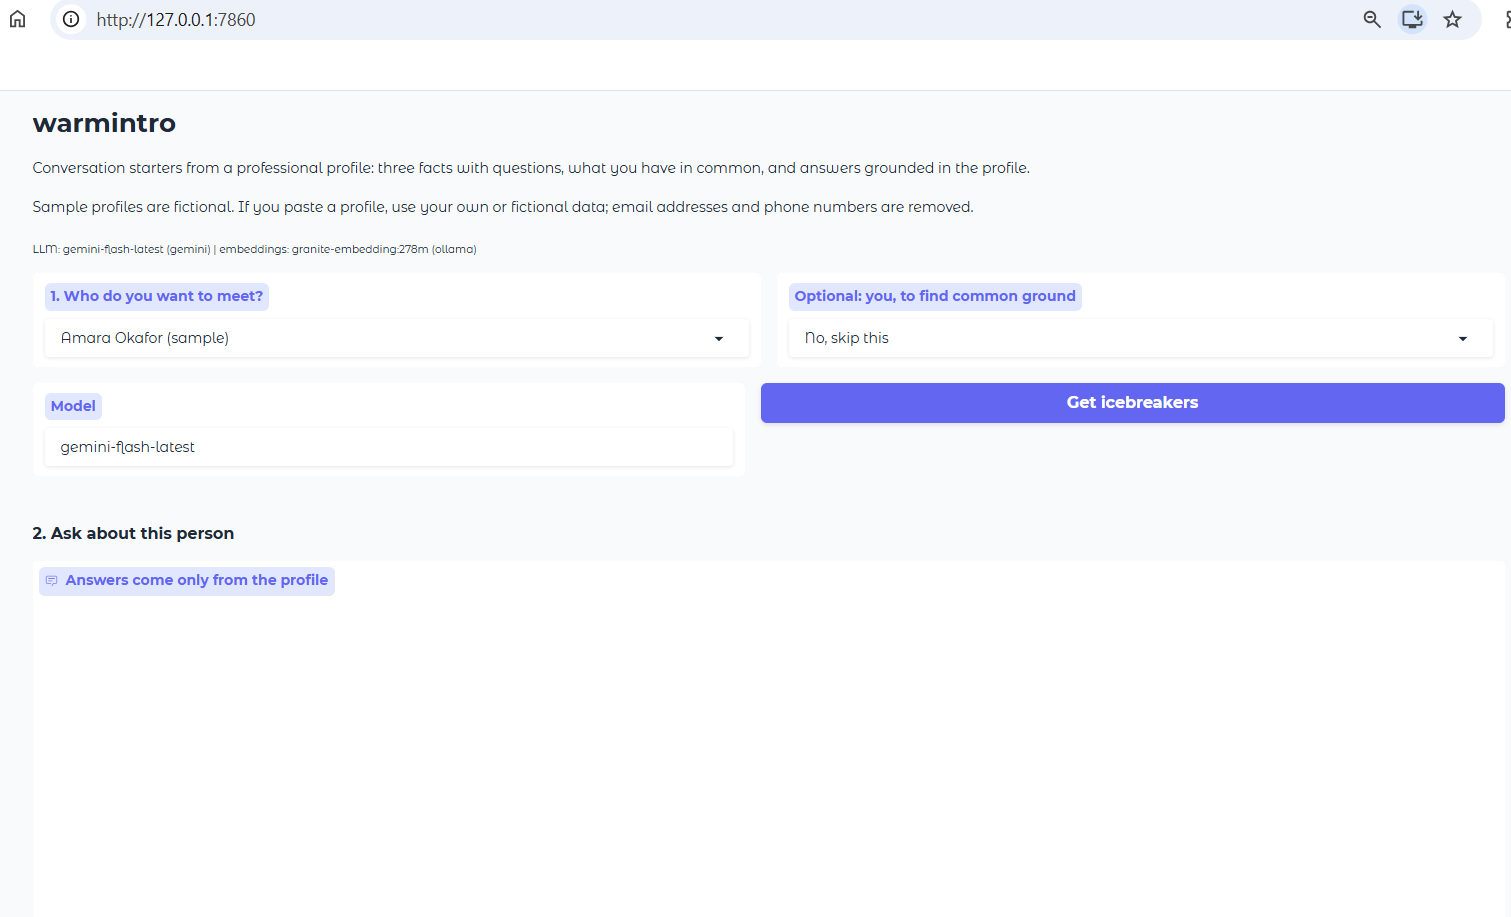
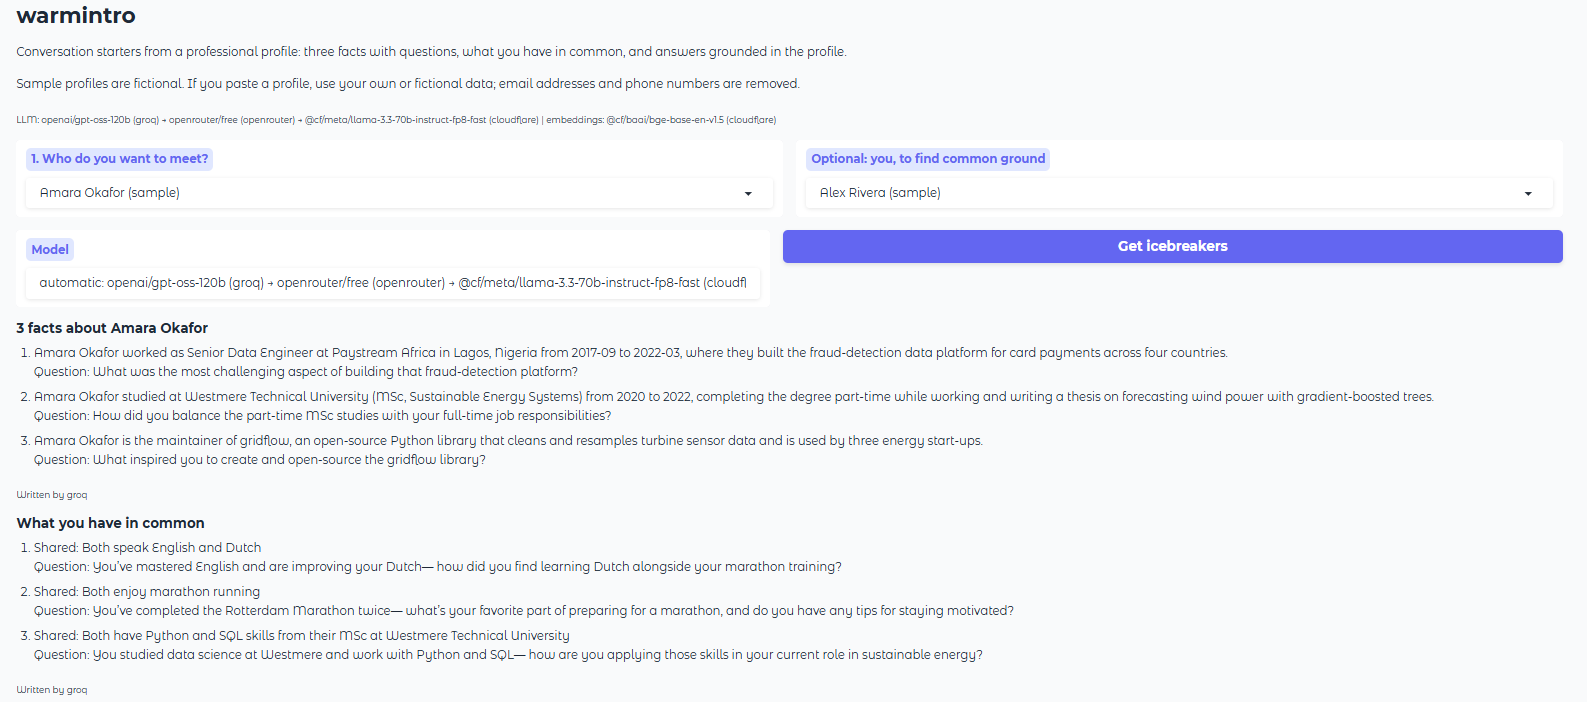
docs: README with results

diff --git a/README.md b/README.md
@@ -1,15 +1,194 @@
-# warmintro
+# warmintro: conversation starters from a professional profile
 
 ![tests](https://github.com/hlmhlr/warmintro/actions/workflows/tests.yml/badge.svg)
+![Python](https://img.shields.io/badge/python-3.12+-blue)
+![LlamaIndex](https://img.shields.io/badge/LlamaIndex-0.14-purple)
+![Ollama](https://img.shields.io/badge/runs%20on-Ollama-black)
+![Render](https://img.shields.io/badge/demo-Render-46e3b7)
 
 > Based on IBM's **"Build an AI Icebreaker Bot with IBM Granite 3.0 & LlamaIndex"** lab
-> (*Build RAG Applications: Get Started* course on Coursera), rebuilt to run locally
-> and free on IBM Granite via Ollama.
+> (*Build RAG Applications: Get Started* course on Coursera), rebuilt to run **locally
+> and free** on IBM Granite via Ollama, extended with a common-ground mode and an answer
+> evaluation, and deployed with a fallback across free cloud APIs.
 
-Work in progress. The full README comes with the web app.
+**Live demo:** LIVE_DEMO_URL *(free server: the first visit after 15 idle minutes takes about a minute to wake up)*
 
-```powershell
+![warmintro: facts and common ground](docs/screenshots/app.png)
+
+Pick a person, and warmintro writes three facts from their profile, each with a question
+to open a conversation, finds what you have in common, and answers questions using
+only the profile ("I don't know." otherwise). All people in this repo are fictional.
+
+## What this project covers
+
+| Lab part | Where it's implemented |
+|---|---|
+| 1. Configuration and prompt templates | `src/warmintro/config.py`, `scripts/01_config.py` |
+| 2. Concepts: LLMs, RAG stages, mock data vs. API | this README, [How it works](#how-it-works) |
+| 3. Profile data extraction | `src/warmintro/profiles.py`, `scripts/02_load_profile.py`, `data/profiles/` |
+| 4. Splitting, indexing, checking embeddings | `src/warmintro/index.py`, `scripts/03_build_index.py` |
+| 5. LLM and embedding interface | `src/warmintro/llm.py`, `src/warmintro/fallback.py`, `scripts/00_check_setup.py`, `scripts/00_check_cloud.py` |
+| 6. Query engine: initial facts and questions | `src/warmintro/query.py`, `scripts/04_initial_facts.py`, `scripts/05_ask.py` |
+| 7. Command-line app | `src/warmintro/cli.py` (`uv run warmintro`) |
+| 8. Gradio web app | `src/warmintro/webapp.py`, `app.py` |
+| **Extension:** common ground between you and them | `src/warmintro/common_ground.py`, `scripts/06_common_ground.py` |
+| **Extension:** evaluation, the RAG stage the lab skips | `src/warmintro/evaluate.py`, `scripts/07_evaluate.py`, `data/eval/` |
+| **Extension:** deployment and CI | `render.yaml`, `.github/workflows/`, `tests/` (198 tests, no model or network needed) |
+
+## What's different from the original lab
+
+**Changed to run locally and free**
+- IBM watsonx.ai → **Ollama** with IBM Granite (`granite4:tiny-h`, `granite-embedding:278m`) on a consumer GPU.
+- No LinkedIn scraping: Proxycurl is discontinued, and the lab's mock profile is a real person. The repo uses five **fictional profiles**, plus a paste box for your own. Email addresses and phone numbers are removed, even inside free text.
+- Lab notebook-style modules → a package (`src/warmintro`), one script per lab part, `uv`, Python 3.12, LlamaIndex 0.14.
+- **Live demo on free cloud APIs:** Groq → Cloudflare Workers AI → OpenRouter, tried in order. Gemini stays available locally, but [Google's terms](https://ai.google.dev/gemini-api/terms) allow only *paid* Gemini for apps offered to users in the EEA, UK or Switzerland, so the public demo doesn't use it.
+
+**Bugs in the lab code that are fixed** (each has a test that fails if the bug comes back)
+1. `truncate_input_tokens=3` embedded only the **first 3 tokens** of every chunk. Whole chunks are embedded now.
+2. `answer_user_query` retrieved the chunks, built a context string, never used it, then let the query engine retrieve again: two searches per question. Now one.
+3. Facts used `decoding_method="sample"` with `temperature=0.0`, which contradicts itself. A sampling preset now requires temperature > 0.
+4. `change_llm_model` changed a **global** setting, so in the web app one user's model choice switched it for everyone. The model is now per call and per session.
+5. The web app kept every index in a global dict that only grew. Sessions now live in `gr.State` with a one-hour limit and a cap of 50.
+6. On failure, `answer_user_query` returned a string, and its callers then crashed reading `.response`. Errors are raised and shown as one friendly line.
+7. The whole profile was dumped as **one line of JSON** and split by size, so chunks started mid-object (`"}, {"title": …`). Each section (a job, a school, the skills…) is now its own readable document.
+8. `verify_embeddings` read the private `_storage_context` and expected `None` for a missing vector, but `vector_store.get` raises `KeyError`. It now reports missing, all-zero and mixed-size vectors by node ID.
+9. The UI showed `f"Error: {e}"` with internal details. Users now get a short message, and tracebacks go to the log only.
+10. Also: the splitter's default overlap of 200 tokens on 400-token chunks is now 40; empty fields are cleaned at every level, not only the top; the "~500 characters" comment counted tokens.
+
+## How it works
+
+```mermaid
+flowchart LR
+    P["Profile JSON or pasted text"] --> C["Clean: drop empty fields and contact details"]
+    C --> S["One document per section<br/>metadata: person, owner, section"]
+    S --> I[("Vector index<br/>Granite or bge embeddings")]
+    M["Your profile (owner: me)"] --> I
+    I -->|"whole profile"| F["3 facts with questions"]
+    I -->|"top 4 chunks"| Q["Answer, or I don't know"]
+    I -->|"filter owner: them<br/>stored vectors as queries"| G["Shared words first, then common ground"]
+    F --> L{"LLM"}
+    Q --> L
+    G --> L
+    L --> O["Ollama (local)"]
+    L --> FB["Groq, then Cloudflare, then OpenRouter<br/>45 s timeout each"]
+```
+
+- **Facts read the whole profile** (13 short chunks). Questions retrieve the top 4. In the first evaluation, retrieving the top 8 for the vague facts request left out every job in 6 of 9 runs.
+- **Common ground:** your profile and theirs share one index, tagged `owner=me` and `owner=them`. Each of your chunks searches only their chunks through a LlamaIndex metadata filter, reusing the stored vectors, so there are no extra embedding calls. Pairs that share real words (a school, a language, an instrument) rank first, and those words are given to the model.
+- **Fallback:** `FallbackLLM` wraps the free providers. A rate limit, an overload (503/504), a timeout or an empty reply moves on to the next provider, and the app shows which one answered.
+
+## Quick start
+
+**Requirements:** [Ollama](https://ollama.com) and [uv](https://docs.astral.sh/uv/). Tested on Windows 11 with a GTX 1660 Ti (6 GB) and 16 GB RAM.
+
+```bash
+ollama pull granite4:tiny-h
+ollama pull granite-embedding:278m
+
+git clone https://github.com/hlmhlr/warmintro.git
+cd warmintro
 uv sync
+cp .env.example .env        # Windows PowerShell: copy .env.example .env
+
 uv run python scripts/00_check_setup.py
+uv run warmintro --profile amara_okafor --me alex_rivera   # command line
+uv run python app.py                                        # web app: http://127.0.0.1:7860
 uv run pytest
 ```
+
+**Cloud mode, like the live demo:** create free keys at Groq, Cloudflare (Workers AI) and OpenRouter, put them in `.env`, then:
+
+```bash
+uv sync --extra cloud
+# in .env: LLM_PROVIDER=groq,cloudflare,openrouter and EMBEDDINGS_PROVIDER=cloudflare
+uv run python scripts/00_check_cloud.py   # checks each provider, never prints keys
+uv run python app.py
+```
+
+**Lab scripts, in order:** `01_config` → `02_load_profile` → `03_build_index` → `04_initial_facts` → `05_ask` → `06_common_ground` → `07_evaluate` (each runs with `uv run python scripts/<name>.py`).
+
+**Deploy your own:** Render → New → Blueprint → this repo (it reads `render.yaml` and asks for the 4 keys). Then add the service's deploy hook as the GitHub secret `RENDER_DEPLOY_HOOK_URL`. Pushing a `v*` tag runs the tests, then deploys that exact commit.
+
+## Results
+
+All numbers are from real runs on the hardware above.
+
+### Evaluation: before and after fixing the prompts
+
+36 fixed questions over 3 profiles, plus 9 generated facts (3 per profile). Local `granite4:tiny-h`, scored by `scripts/07_evaluate.py`. "Before" is re-judged with the same judge as "after", so the two columns are comparable.
+
+| Check | Before | After |
+|---|---|---|
+| Answerable questions correct | 17/18 | 17/18 |
+| Unanswerable → "I don't know." | 12/12 | 12/12 |
+| Qualifier kept ("basic" Italian, a past job) | 5/6 | **6/6** |
+| Facts: 3 numbered, each with a question | 3/9 | **9/9** |
+| Facts: no numbers missing from the profile | 9/9 | 9/9 |
+| Facts: a job was in the context | 3/9 | **9/9** |
+| Facts: passed every check | 1/9 | **9/9** |
+| Seconds per answer / per facts | 4.1 / 6.7 | 4.2 / 6.8 |
+
+The fixes: facts read the whole profile; the templates require starting at "1.", one fixed layout, no opinions and no new numbers; questions must keep qualifiers; job chunks say "Current job" or "Past job".
+
+**The LLM judge, tested on its own.** It sees 12 statements with known answers, 6 true and 6 with one planted error. The local model accepted all 6 true ones but caught only **1 of 6** errors (**58%**, against 50% for a judge that always says YES). So a 1B-active model is not a reliable judge, and the grounding results above rest on the rule-based checks. An earlier version of the judge rejected 6 of 9 correct facts, by flagging questions and quoting the profile as "unsupported". That is why the judge now gets one fact at a time, with questions removed.
+
+### Cloud vs. local speed
+
+| | Local (GTX 1660 Ti) | Cloud (Groq, first in the chain) |
+|---|---|---|
+| Model loading | 15.5–16.4 s on the first call | none |
+| Answer to a question | 4.1 s | **1.2–1.3 s** |
+| Embedding a profile (13 chunks) | 0.6 s | Cloudflare: 1.8 s for one test text |
+
+Live server: **228 MB peak** with 30 sessions held, measured with the exact deployed packages (Render's free plan has 512 MB).
+
+### Retrieval: the bge query instruction
+
+With Cloudflare's `bge-base` embeddings, "What is this person's current job title?" retrieved a *past* job for Amara, and the model correctly said "I don't know.". The bge model card recommends a prefix for short queries (*"Represent this sentence for searching relevant passages: "*), never for stored passages:
+
+| | Amara: current job | Sofia: current job | The other 10 questions |
+|---|---|---|---|
+| Without the prefix | ❌ "I don't know." | ✅ | all correct |
+| With the prefix (default) | ✅ | ✅ | all correct |
+
+### Common ground
+
+The sample profiles contain 10 planted shared topics (same school, running, cello, coding clubs…).
+
+| Version (local Granite) | Planted topics named | Claims not actually shared |
+|---|---|---|
+| Similarity only | 6/10 | yes: "Swedish" (only Sam speaks it), "Data Science" |
+| Shared words first + claim check | 2/10 | **0** (8/8 claims are in both profiles) |
+
+I kept the second version: telling someone "you both studied X" when you didn't is worse than missing a topic. With Groq in the cloud, the Alex–Amara pair named all 3 planted topics (Dutch, marathon, Westmere).
+
+![chat](docs/screenshots/chat.png)
+
+## Limitations
+
+- **Small embedding models cluster profile chunks tightly** (Granite scores of 0.60–0.67), because every chunk names the person. A specific question can still miss its chunk, like Sofia's job title with local Granite (17/18).
+- **The local judge can't detect most errors** (58%, above). A larger judge model is the next step; free Gemini isn't an option for an EU-facing app.
+- **The common-ground claim check works on words**, so it can't catch a wrong *combination* of words both profiles contain. Seen in a cloud run: "You studied data science at Westmere", when Amara studied Sustainable Energy Systems there.
+- **Common-ground recall is low with the local model** (2/10). Weighting shared words by rarity would stop generic words ("Science", "Online") from outranking names like Westmere.
+- **The free tiers have limits.** OpenRouter's free router picks a random model; Groq and Cloudflare have daily quotas. The demo allows 20 questions per profile, and if every provider is busy it says so.
+- The evaluation is small (36 questions, 9 facts runs, 12 judge statements). It shows differences between versions, not population-level accuracy.
+
+## What I learned
+
+- **RAG with LlamaIndex:** Documents and Nodes, `SentenceSplitter`, `VectorStoreIndex`, query engines with a custom `text_qa_template`, metadata (including hiding fields from the embedding and the LLM), and metadata filters.
+- **Chunking is a design decision:** one readable document per profile section beat a JSON dump split by size, and a broad request (the facts) needs different context from a specific question.
+- **Evaluate before tuning.** A baseline scorecard showed which fixes mattered. Re-judging old outputs with the new judge kept the before/after fair. Testing the judge itself showed its verdicts couldn't be trusted.
+- **Read the provider's details:** a model's thinking tokens count against its output limit, `OpenAILike` silently drops `reasoning_effort` for non-OpenAI models, bge expects a query prefix, and a free tier's terms can rule out a deployment.
+- **Production basics:** timeouts and a provider fallback, friendly errors without tracebacks, per-session state, a startup check for the configuration, secrets kept out of git, and tests that fail when a known bug comes back.
+
+## Acknowledgments and references
+
+- Original lab: **"Build an AI Icebreaker Bot with IBM Granite 3.0 & LlamaIndex"** by [Hailey Quach](https://www.haileyq.com/), with Wojciech "Victor" Fulmyk, IBM Skills Network, part of the *Build RAG Applications: Get Started* course on Coursera. © IBM Corporation. This repository is an independent re-implementation; the lab's prompt templates were rewritten, and no LinkedIn data is used.
+- [IBM Granite models](https://www.ibm.com/granite/docs/models/granite) · [LlamaIndex](https://docs.llamaindex.ai/) · [Ollama](https://ollama.com) · [Gradio](https://www.gradio.app/)
+- Free APIs used by the demo: [Groq](https://console.groq.com/docs/models), [Cloudflare Workers AI](https://developers.cloudflare.com/workers-ai/), [OpenRouter](https://openrouter.ai/docs)
+- [BAAI/bge-base-en-v1.5 model card](https://huggingface.co/BAAI/bge-base-en-v1.5) (query instruction)
+- Lewis et al. (2020), [*Retrieval-Augmented Generation for Knowledge-Intensive NLP Tasks*](https://arxiv.org/abs/2005.11401)
+
+## License
+
+MIT, see [LICENSE](LICENSE). Applies to the code in this repository only. The sample profiles are fictional and written for this repo.
